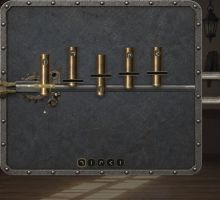
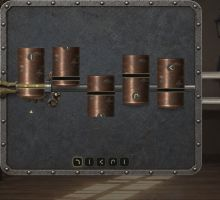
Enlarge Alpha Protocol pins

diff --git a/css/modes-21-alphaprotocol.css b/css/modes-21-alphaprotocol.css
@@ -2,8 +2,8 @@
 .apMode[hidden]{display:none!important;pointer-events:none!important;}
 body.importedMode .puzzleArea>.modePanel.apMode:not([hidden]){padding-bottom:calc(16px + var(--reward-clear,0px))!important;}
 .apLockWrap{position:absolute;inset:0;display:block;overflow:visible;}
-.apLock{box-sizing:border-box;display:grid;grid-template-columns:repeat(5,minmax(0,1fr));gap:1.8%;padding:12% 8.2% 15%;border:0;border-radius:0;background:transparent;box-shadow:none;overflow:hidden;container-type:inline-size;}
-.apBeam{position:absolute;left:8.2%;right:8.2%;top:49%;height:4px;transform:translateY(-50%);pointer-events:none;z-index:6;overflow:hidden;}
+.apLock{box-sizing:border-box;display:grid;grid-template-columns:repeat(5,minmax(0,1fr));gap:4.5%;padding:12% 4.5% 15%;border:0;border-radius:0;background:transparent;box-shadow:none;overflow:hidden;container-type:inline-size;}
+.apBeam{position:absolute;left:4.5%;right:4.5%;top:49%;height:4px;transform:translateY(-50%);pointer-events:none;z-index:6;overflow:hidden;}
 .apBeamFill{position:relative;display:block;height:100%;width:0;border-radius:999px;background:linear-gradient(90deg,rgba(245,210,96,0),rgba(245,210,96,.42) 8%,rgba(245,210,96,.95) 58%,rgba(255,242,182,.42));box-shadow:0 0 9px rgba(245,210,96,.42);transition:width .14s ease-out;}
 .apBeamFill::after{content:"";position:absolute;inset:0;background:repeating-linear-gradient(90deg,transparent 0 14px,rgba(255,247,205,.82) 14px 20px,transparent 20px 34px);animation:apBeamFlow .85s linear infinite;}
 @keyframes apBeamFlow{from{transform:translateX(-30px)}to{transform:translateX(0)}}
@@ -14,10 +14,10 @@ body.importedMode .puzzleArea>.modePanel.apMode:not([hidden]){padding-bottom:cal
 .apPin.active::after{color:#d8b871;filter:drop-shadow(0 0 5px rgba(216,184,113,.5));}
 .apPin.set{filter:sepia(.18) brightness(1.08);}
 .apPin.ready .apGroove{background:#302819;border-color:#efd38b;box-shadow:0 0 7px rgba(239,211,139,.28);}
-.apShaft{position:absolute;left:16%;right:16%;height:60%;top:var(--y,24%);background-position:center;background-size:contain;background-repeat:no-repeat;transition:top .05s;overflow:visible;z-index:1;filter:drop-shadow(0 5px 5px rgba(0,0,0,.42));}
+.apShaft{position:absolute;left:-5%;right:-5%;height:72%;top:var(--y,24%);background-position:center;background-size:100% 100%;background-repeat:no-repeat;transition:top .05s;overflow:visible;z-index:1;filter:drop-shadow(0 5px 5px rgba(0,0,0,.42));}
 .apPin.active .apShaft{filter:brightness(1.12) drop-shadow(0 0 7px rgba(216,184,113,.26)) drop-shadow(0 5px 5px rgba(0,0,0,.42));}
 .apPin.set .apShaft{filter:sepia(.18) brightness(1.12) drop-shadow(0 0 7px rgba(123,191,120,.2));}
-.apGroove{position:absolute;left:-4px;right:-4px;top:var(--groove,55%);height:10px;transform:translateY(-50%);background:#11100c;border-top:1px solid #c1b58f;border-bottom:1px solid #c1b58f;z-index:1;}
+.apGroove{position:absolute;left:0;right:0;top:var(--groove,55%);height:12px;transform:translateY(-50%);background:#11100c;border-top:1px solid #c1b58f;border-bottom:1px solid #c1b58f;box-sizing:border-box;z-index:1;}
 .apSymbol{position:absolute;left:50%;top:var(--symbol-top,18%);width:4.8cqw;height:4.8cqw;transform:translate(-50%,-50%);z-index:2;color:#e4dcc3;background:rgba(64,60,49,.9);border:1px solid rgba(197,173,118,.28);border-radius:50%;padding:.5cqw;box-sizing:border-box;}
 .apSymbol svg{width:100%;height:100%;overflow:visible;}
 .apSymbol path{fill:none;stroke:currentColor;stroke-width:5;stroke-linecap:round;stroke-linejoin:round;}

diff --git a/js/modes/alphaprotocol.js b/js/modes/alphaprotocol.js
@@ -8,9 +8,9 @@ const AP_SYMBOLS=[
   '<svg viewBox="0 0 48 48"><path d="M14 43V23Q14 7 28 7Q41 7 41 22V25"/></svg>',
   '<svg viewBox="0 0 48 48"><path d="M39 6L14 24L39 43"/></svg>'
 ];
-const AP_STEP=.5, AP_MIN_Y=-2, AP_MAX_Y=50, AP_TOL=2;
+const AP_STEP=.5, AP_MIN_Y=-14, AP_MAX_Y=50, AP_TOL=2;
 function apClampY(v){ return Math.max(AP_MIN_Y,Math.min(AP_MAX_Y,Math.round(v/AP_STEP)*AP_STEP)); }
-function apTargetFor(groove){ return apClampY(50-groove*.60); }
+function apTargetFor(groove){ return apClampY(50-groove*.72); }
 function apMakePin(){
   const groove=14+Math.floor(Math.random()*73), target=apTargetFor(groove);
   const candidates=[-16,-12,-9,-6,6,9,12,16].map(v=>apClampY(target+v)).filter(v=>v!==target);
